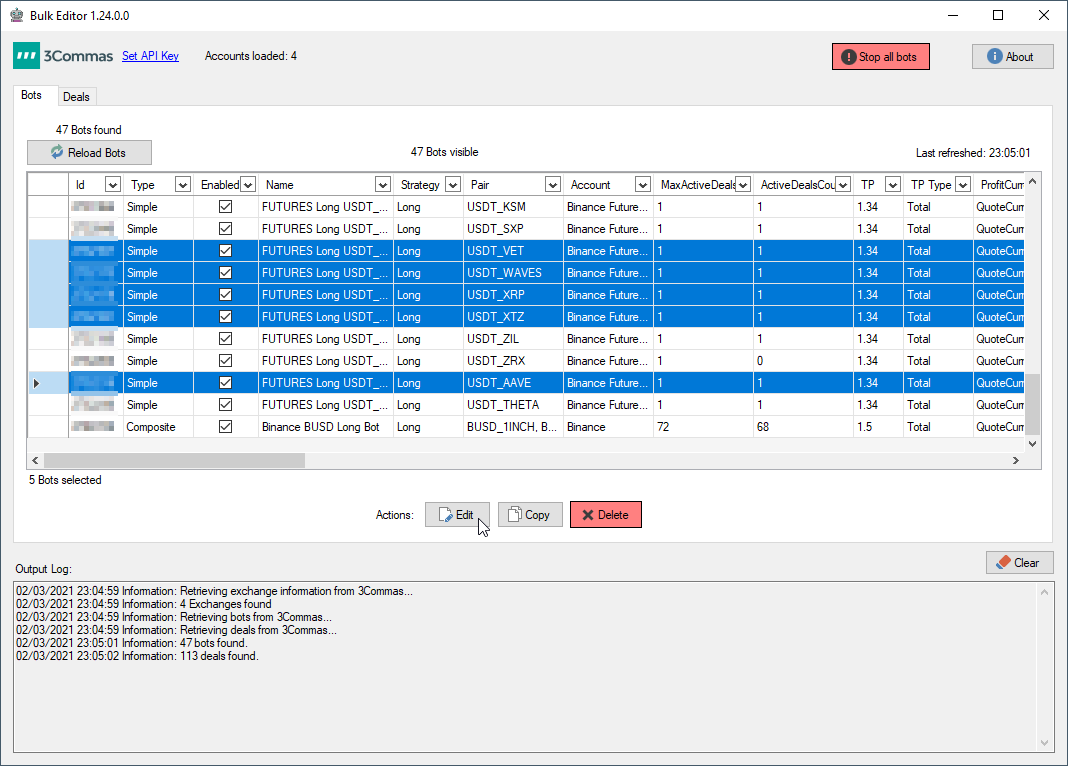
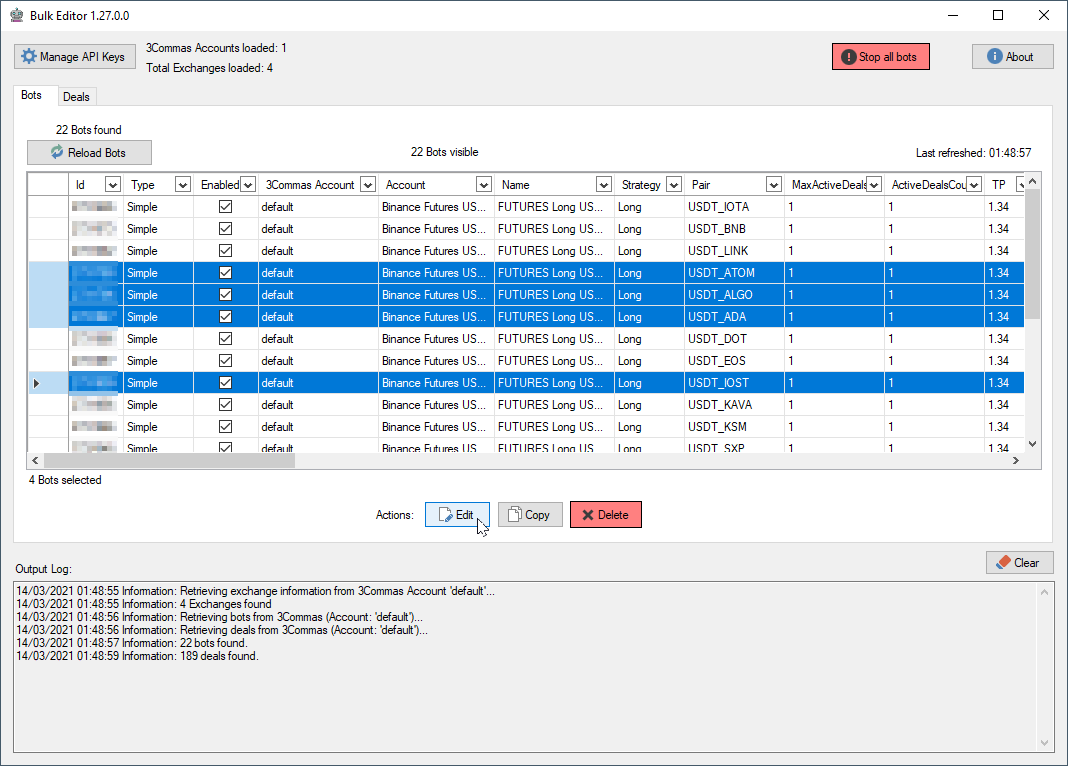
updated readme and screenshots

diff --git a/README.md b/README.md
@@ -1,6 +1,6 @@
 # 3Commas.BulkEditor
 
-This unofficial tool allows you to bulk edit your DCA bots (simple & composite) + some actions to manage your deals
+This unofficial tool allows you to bulk edit deals and DCA bots (simple & composite) of multiple 3Commas Accounts
 
 
 ## Technical description
@@ -16,6 +16,7 @@ Also if you think something is broken or have any questions, please open an [Iss
 
 ## Features
 
+- Add multiple 3Commas Accounts
 - Bots
   - View all of your DCA bots
   - Filtering, sorting, etc
@@ -30,19 +31,23 @@ Also if you think something is broken or have any questions, please open an [Iss
   - Bulk Enable/Disable TTP
   - Bulk Cancel
   - Bulk Panic Sell
+  - Bulk Add Funds
 
 ## Screenshots
 
 ![Main Screen Bots](https://github.com/MarcDrexler/3Commas.BulkEditor/blob/master/screenshots/MainscreenBots.png)
 
+![Edit Bots Dialog](https://github.com/MarcDrexler/3Commas.BulkEditor/blob/master/screenshots/EditBotsDialog.png)
+
 ![Main Screen Deals](https://github.com/MarcDrexler/3Commas.BulkEditor/blob/master/screenshots/MainscreenDeals.png)
 
-![Edit Dialog](https://github.com/MarcDrexler/3Commas.BulkEditor/blob/master/screenshots/EditDialog.png)
+![Edit Deals Dialog](https://github.com/MarcDrexler/3Commas.BulkEditor/blob/master/screenshots/EditDealsDialog.png)
 
 ![In Progress Dialog](https://github.com/MarcDrexler/3Commas.BulkEditor/blob/master/screenshots/InProgress.png)
 
 ## Prerequisites
 
+- Windows 10
 - .NET Framework 4.7.2 (which already might be installed on your Windows machine)
 - 3Commas API key and secret
 
